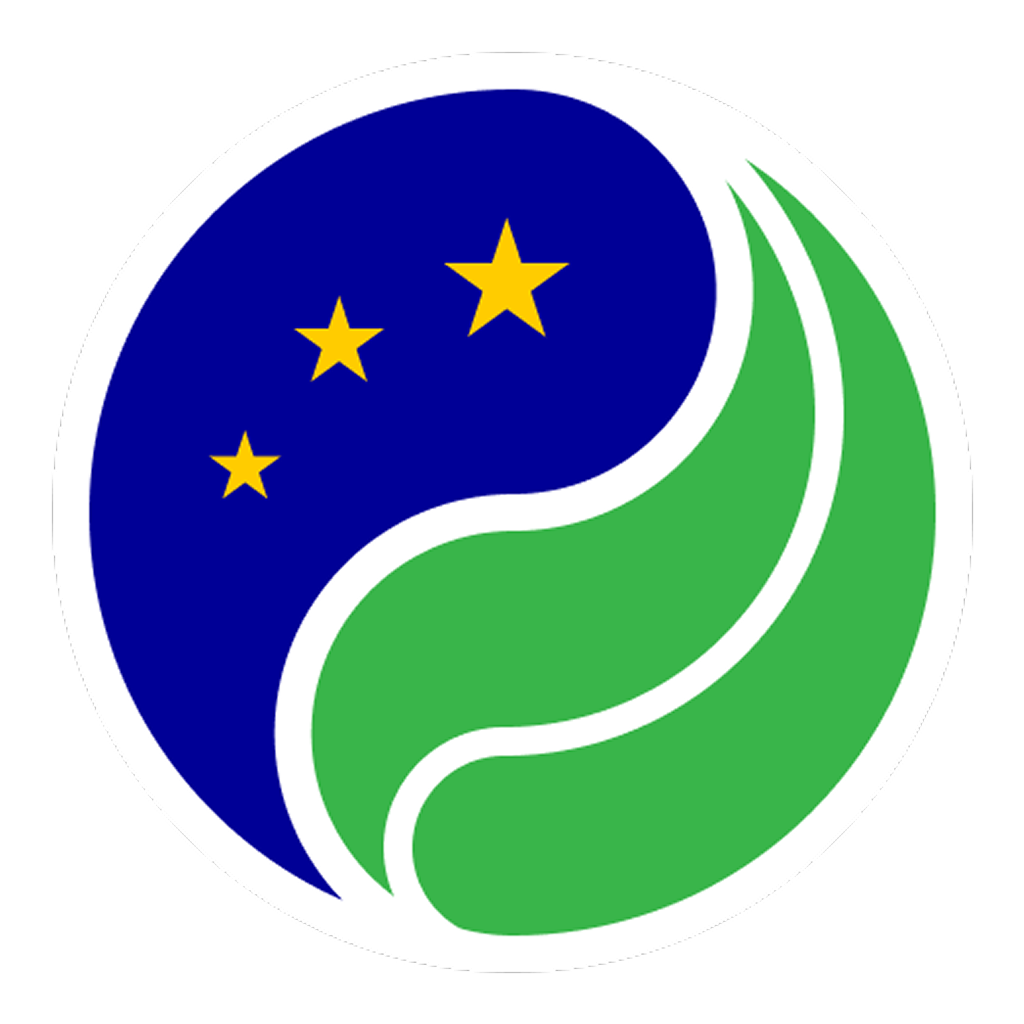
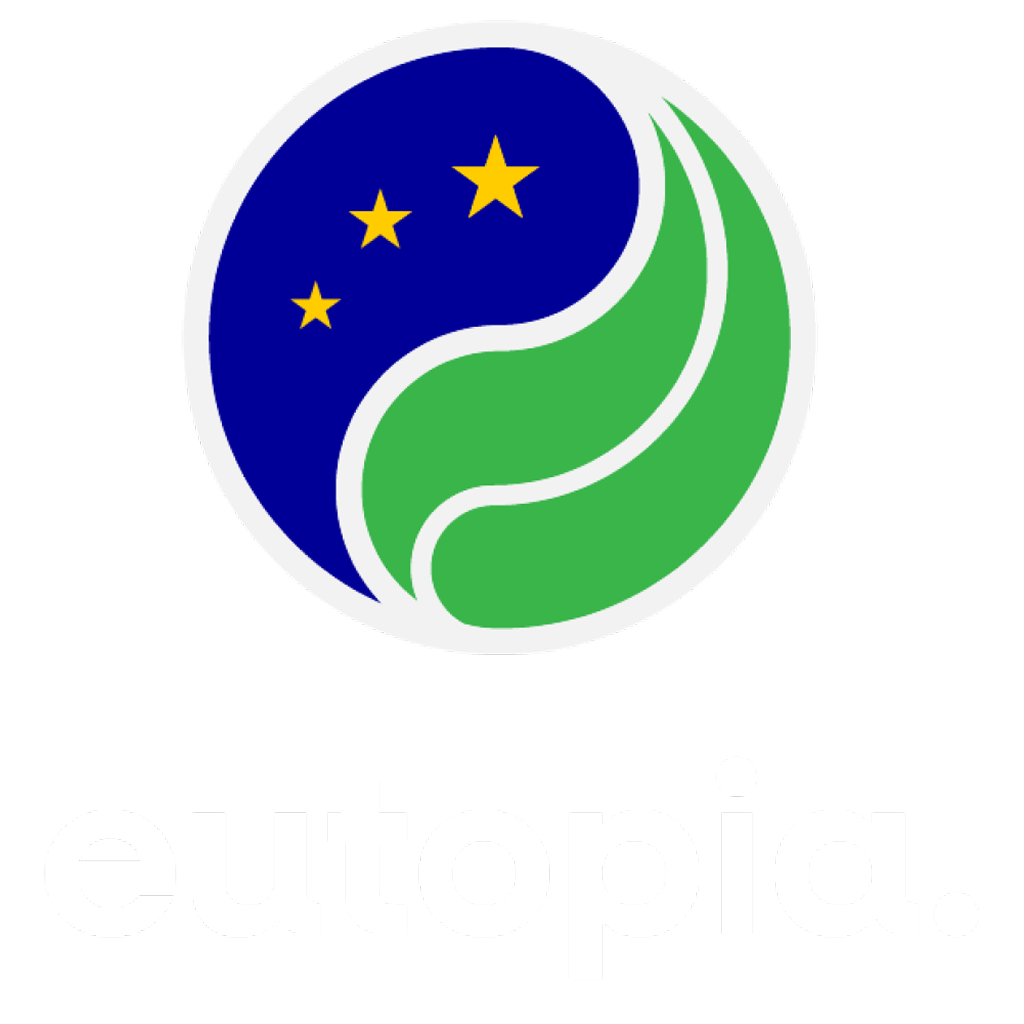
update

diff --git a/frontend/app/(tabs)/index.tsx b/frontend/app/(tabs)/index.tsx
@@ -1,5 +1,5 @@
 import React, { useEffect, useState } from "react";
-import { View, Text, FlatList } from "react-native";
+import { View, Text, FlatList, Image, StyleSheet } from "react-native";
 import GameCard from "../../components/GameCard";
 import ProfileButton from "../../components/ProfileButton";
 import globalStyles from "../../styles/globalStyles";
@@ -29,7 +29,7 @@ export default function HomeScreen() {
   }, []);
 
   const games = [
-    { id: "1", title: "QuizzGame", isMultiplayer: true },
+    { id: "1", title: "Europa Trivia", isMultiplayer: true },
     { id: "2", title: "EmojiGame", isMultiplayer: false },
     { id: "3", title: "EU Quizz", isMultiplayer: false },
     { id: "4", title: "Comming soon", isMultiplayer: true },
@@ -40,12 +40,12 @@ export default function HomeScreen() {
   return (
     <View style={[globalStyles.container, { flex: 1 }]}>
       <ProfileButton />
-      <View style={{ marginTop: 100 }}>
-        <Text style={[globalStyles.Title, { marginLeft: theme.spacing.medium }]}>Welcome</Text>
-        <Text style={[globalStyles.Title, { marginLeft: theme.spacing.medium }]}>Back!</Text>
-      </View>
+      <View style={styles.logoContainer}>
+  <Image source={require("../../assets/images/bigLogo.png")} style={styles.logo} />
+</View>
 
-      <View style={{ width: "100%", marginBottom: 20 }}>
+
+      <View style={{ width: "100%", marginBottom: 20, marginTop: -40}}>
         <GameCard
           title="EU Quizz"
           textColor="#ffffff"
@@ -54,7 +54,7 @@ export default function HomeScreen() {
         />
       </View>
 
-      <Text style={globalStyles.Subtitle}>Reward</Text>
+      <Text style={globalStyles.Subtitle}>Rewards</Text>
 
       <FlatList
         data={rewards}
@@ -63,7 +63,7 @@ export default function HomeScreen() {
           <GameCard
             title={item.title}
             variant="square"
-            image={{ uri: item.image }} // Ajout de l’image récupérée
+            image={{ uri: item.image }}
             onPress={() => router.push("/rewardInfo")}
           />
         )}
@@ -71,7 +71,7 @@ export default function HomeScreen() {
         showsHorizontalScrollIndicator={false}
       />
 
-      <Text style={globalStyles.Subtitle}>Minigames</Text>
+      <Text style={globalStyles.Subtitle}>Mini Games</Text>
 
       <FlatList
         data={games}
@@ -82,4 +82,15 @@ export default function HomeScreen() {
       />
     </View>
   );
-}
+  };
+  const styles = StyleSheet.create({
+    logoContainer: {
+      marginTop: 55,
+      marginLeft: theme.spacing.medium
+    },
+    logo: {
+      width: 200,
+      height: 150,
+      resizeMode: "contain",
+    },
+    });

diff --git a/frontend/app/euQuizz/questions.tsx b/frontend/app/euQuizz/questions.tsx
@@ -17,9 +17,9 @@ export default function QuestionsScreen() {
       flag: "🇩🇪",
       points: 100,
       answers: [
-        { id: "1", image: require("../../assets/images/currywurst.png"), isCorrect: true },
-        { id: "2", image: require("../../assets/images/bretzel.png"), isCorrect: false },
-        { id: "3", image: require("../../assets/images/beer.png"), isCorrect: false },
+        { id: "1", text: 'text', isCorrect: true },
+        { id: "2", text: 'text', isCorrect: false },
+        { id: "3", text: 'text', isCorrect: false },
       ],
     },
     {
@@ -28,9 +28,9 @@ export default function QuestionsScreen() {
       flag: "🇫🇷",
       points: 200,
       answers: [
-        { id: "1", image: require("../../assets/images/baguette.png"), isCorrect: true },
-        { id: "2", image: require("../../assets/images/croissant.png"), isCorrect: false },
-        { id: "3", image: require("../../assets/images/cheese.png"), isCorrect: false },
+        { id: "1", text: 'text', isCorrect: true },
+        { id: "2", text: 'text', isCorrect: false },
+        { id: "3", text: 'text', isCorrect: false },
       ],
     },
   ];
@@ -76,8 +76,7 @@ export default function QuestionsScreen() {
         {questions[currentQuestionIndex].answers.map((answer) => (
           <View key={answer.id} style={{ marginBottom: 10 }}>
             <AnswerCard
-              //text={answer.text}
-              image={answer.image}
+              text={answer.text}
               onPress={() => handleSelectAnswer(answer.id)}
             />
             </View>

diff --git a/frontend/app/rewardInfo.tsx b/frontend/app/rewardInfo.tsx
@@ -2,12 +2,15 @@ import React, { useState } from "react";
 import { View, Text, Image, TouchableOpacity, StyleSheet, Alert, ScrollView } from "react-native";
 import { useLocalSearchParams, useRouter } from "expo-router";
 import * as Clipboard from "expo-clipboard";
+import globalStyles from "@/styles/globalStyles";
+import { Ionicons } from "@expo/vector-icons";
+import theme from "@/styles/theme";
 
 const RewardDetail: React.FC = () => {
   const router = useRouter();
   const { title, image, points, requiredPoints, description } = useLocalSearchParams();
   const [redeemed, setRedeemed] = useState(false);
-  const rewardCode = "ABC-XYZ-123"; 
+  const rewardCode = "ABC-XYZ-123";
 
   const handleRedeem = () => {
     setRedeemed(true);
@@ -20,7 +23,12 @@ const RewardDetail: React.FC = () => {
 
   return (
     <View style={styles.container}>
-      <Image source={image as any} style={styles.image} /> 
+      <View style={{  position: "relative", width: "100%",}}>
+        <TouchableOpacity onPress={() => router.back()} style={{position:'absolute', marginTop:theme.spacing.xxlarge, zIndex: 10,marginLeft: theme.spacing.medium}}>
+          <Ionicons name="chevron-back" size={40} color="#111d45" />
+        </TouchableOpacity>
+        <Image source={image as any} style={styles.image} />
+      </View>
       <ScrollView contentContainerStyle={styles.content}>
         <Text style={styles.title}>{title}</Text>
         <Text style={styles.description}>{description}</Text>

diff --git a/frontend/app/achievement.tsx b/frontend/app/achievement.tsx
@@ -1,5 +1,5 @@
 import React from 'react';
-import { View, Text, FlatList, StyleSheet, TouchableOpacity } from 'react-native';
+import { View, Text, FlatList, StyleSheet } from 'react-native';
 import { useRouter } from "expo-router";
 import globalStyles from "../styles/globalStyles";
 import { FontAwesome, FontAwesome5, AntDesign, SimpleLineIcons, Entypo, Feather, Ionicons, MaterialIcons, MaterialCommunityIcons } from '@expo/vector-icons';
@@ -32,12 +32,7 @@ const AchievementList = () => {
   const router = useRouter();
   return (
     <View style={globalStyles.container}>
-      <View style={[globalStyles.header, { marginBottom: -90, backgroundColor: theme.colors.background, zIndex: 10, height:100 }]}>
-        <TouchableOpacity onPress={() => router.back()} style={[globalStyles.goBackButton, {marginLeft: theme.spacing.medium}]}>
-          <Ionicons name="chevron-back" size={30} color="white" />
-        </TouchableOpacity>
-        <Text style={[styles.title, { marginTop: 40, backgroundColor: theme.colors.background }]}>Achievements</Text>
-      </View>
+ 
       <FlatList
         data={achievements}
         keyExtractor={(item, index) => index.toString()}

diff --git a/frontend/app/lobby.tsx b/frontend/app/lobby.tsx
@@ -1,6 +1,6 @@
 import { View, Text, ActivityIndicator } from "react-native";
-import globalStyles from "../../styles/globalStyles";
-import euQuizzStyles from "../../styles/euQuizzStyles";
+import globalStyles from "../styles/globalStyles";
+import euQuizzStyles from "../styles/euQuizzStyles";
 import { Ionicons } from "@expo/vector-icons";
 import { useEffect, useState } from "react";
 import { useRouter } from "expo-router";

diff --git a/frontend/components/ProfileCard.tsx b/frontend/components/ProfileCard.tsx
@@ -18,7 +18,6 @@ export default function ProfileCard({ username, score, highScore }: ProfileCardP
       <View>
         <Text style={globalStyles.Title}>{username}</Text>
         <Text style={rankingStyles.profileScore}>Score: {score} pts</Text>
-        <Text style={rankingStyles.profileHighScore}>Highest Monthly Score: {highScore}</Text>
       </View>
     </View>
   );

diff --git a/frontend/app/euQuizz/_layout.tsx b/frontend/app/euQuizz/_layout.tsx
@@ -3,7 +3,6 @@ import { Stack } from "expo-router";
 export default function GameNavigator() {
   return (
     <Stack screenOptions={{ headerShown: false }}>
-      <Stack.Screen name="lobby" />
       <Stack.Screen name="category" />
       <Stack.Screen name="difficulty" />
       <Stack.Screen name="questions" />

diff --git a/frontend/components/GameCard.tsx b/frontend/components/GameCard.tsx
@@ -31,7 +31,7 @@ export default function GameCard({
       router.push("../euQuizz");
     } else if (title === "EmojiGame") {
       router.push("/game-emoji");
-    } else if (title === "QuizzGame") {
+    } else if (title === "Europa Trivia") {
       router.push("/game-quizz");
     }
   };

diff --git a/frontend/styles/globalStyles.ts b/frontend/styles/globalStyles.ts
@@ -375,8 +375,6 @@ const globalStyles = StyleSheet.create({
     transform: [{ translateY: -8 }],
     color: "#ffffff",
   },
-  
-
   headerWithGoBack: {
     flexDirection: "row",
     alignItems: "center",
